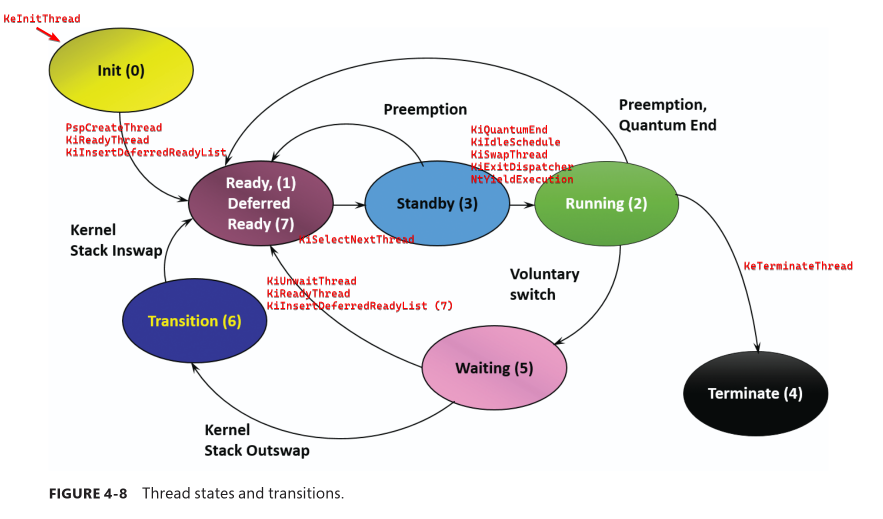
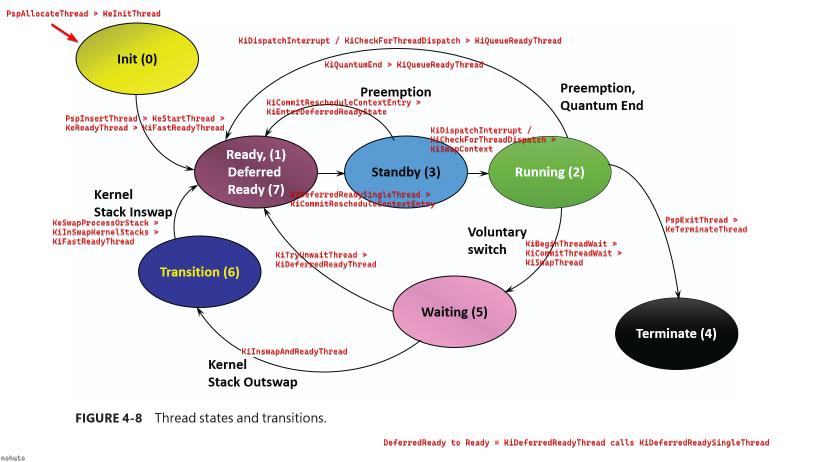
update thread states

diff --git a/threads/thread-scheduling/thread-states.md b/threads/thread-scheduling/thread-states.md
@@ -1,5 +1,17 @@
 # Thread States
 
+> "*Thread State is the current state of the thread.  It is 0 for Initialized, 1 for Ready, 2 for Running, 3 for Standby, 4 for Terminated, 5 for Wait, 6 for Transition, 7 for Unknown.  A Running thread is using a processor, a Standby thread is about to use one.  A Ready thread wants to use a processor, but is waiting for a processor because none are free.  A thread in Transition is waiting for a resource in order to execute, such as waiting for its execution stack to be paged in from disk.  A Waiting thread has no use for the processor because it is waiting for a peripheral operation to complete or a resource to become free.*"
+
+## PerfMon Example
+
+Here we can see the state transitions of a single thread when having different activity levels (Low = 25%, Busy = 75%, Maximum = 100%):
+
+![](https://github.com/nohuto/win-config/blob/main/system/images/perfmon-activity.png?raw=true)
+
+Here I've set the affinity of both threads to the same CPU, causing them to switch between running/ready (as only one can run at a time) all the time (thats also how it would look like when you've a single processor system):
+
+![](https://github.com/nohuto/win-config/blob/main/system/images/perfmon-2-threads.png?raw=true)
+
 ### _KTHREAD_STATE
 
 The state shows the threads scheduler state, the wait reason shows why a waiting thread entered its wait (the descriptions were partly taken from [Windows Internals](https://github.com/nohuto/windows-books/releases/download/7th-Edition/Windows-Internals-E7-P1.pdf)).
@@ -10,12 +22,12 @@ The state shows the threads scheduler state, the wait reason shows why a waiting
 lkd> dt nt!_KTHREAD_STATE
    Initialized = 0n0 // This state is used internally while a thread is being created
    Ready = 0n1 // Queued on Prcb->DispatcherReadyListHead. A thread in the ready state is waiting to execute or to be in-swapped after completing a wait. When looking for a thread to execute, the dispatcher considers only the threads in the ready state
-   Running = 0n2 // Pointed at by Prcb->CurrentThread. After the dispatcher performs a context switch to a thread, the thread enters the running state and executes. The thread’s execution continues until its quantum ends (and an other thread at the same priority is ready to run), it is preempted by a higher-priority thread, it terminates, it yields execution, or it voluntarily enters the waiting state
+   Running = 0n2 // After the dispatcher performs a context switch to a thread, the thread enters the running state and executes. The thread’s execution continues until its quantum ends (and an other thread at the same priority is ready to run), it is preempted by a higher-priority thread, it terminates, it yields execution, or it voluntarily enters the waiting state
    Standby = 0n3 // A thread in this state has been selected to run next on a particular processor. When the correct conditions exist, the dispatcher performs a context switch to this thread. Only one thread can be in the standby state for each processor on the system. Note that a thread can be preempted out of the standby state before it ever executes (if, for example, a higher-priority thread becomes runnable before the standby thread begins execution)
    Terminated = 0n4 // When a thread finishes executing, it enters this state. After the thread is terminated, the executive thread object (the data structure in system memory that describes the thread) might or might not be deallocated. The object manager sets the policy regarding when to delete the object. For example, the object remains if there are any open handles to the thread. A thread can also enter the terminated state from other states if it’s killed explicitly by some other thread, for example, by calling the TerminateThread Windows API
-   Waiting = 0n5 // Queued on WaitList->WaitBlock. A thread can enter the waiting state in several ways: A thread can voluntarily wait for an object to synchronize its execution, the OS can wait on the thread’s behalf (such as to resolve a paging I/O), or an environment subsystem can direct the thread to suspend itself. When the thread’s wait ends, depending on its priority, the thread either begins running immediately or is moved back to the ready state
-   Transition = 0n6 // Queued on KiStackInSwapList. A thread enters the transition state if it is ready for execution but its kernel stack is paged out of memory. After its kernel stack is brought back into memory, the thread enters the ready state
-   DeferredReady = 0n7 // Pointed at by Prcb->DeferredReadyListHead. This state is used for threads that have been selected to run on a specific processor but have not actually started running there. This state exists so that the kernel can minimize the amount of time the per-processor lock on the scheduling database is held
+   Waiting = 0n5 // A thread can enter the waiting state in several ways: A thread can voluntarily wait for an object to synchronize its execution, the OS can wait on the thread’s behalf (such as to resolve a paging I/O), or an environment subsystem can direct the thread to suspend itself. When the thread’s wait ends, depending on its priority, the thread either begins running immediately or is moved back to the ready state
+   Transition = 0n6 // A thread enters the transition state if it is ready for execution but its kernel stack is paged out of memory. After its kernel stack is brought back into memory, the thread enters the ready state
+   DeferredReady = 0n7 // This state is used for threads that have been selected to run on a specific processor but have not actually started running there. This state exists so that the kernel can minimize the amount of time the per-processor lock on the scheduling database is held
    GateWaitObsolete = 0n8
    WaitingForProcessInSwap = 0n9
 ```
